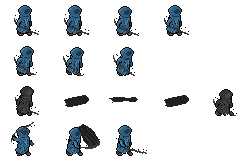
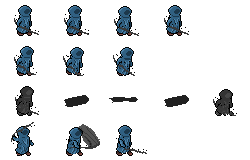
Increased player attacks hitbox

Changed region(s): [[0.308, 0.7812, 0.392, 0.9062]]

diff --git a/src/entities/Player.py b/src/entities/Player.py
@@ -109,15 +109,16 @@ class Player(Entity):
         )
 
     def attack_hitbox_rect(self) -> pygame.Rect:
-        """The world-space rect AttackState lands its hit against - just
+        """The world-space rect AttackState lands its hit against - mostly
         the strip in front of Marze's own hurtbox (facing the direction
-        currently flipped toward), not overlapping it, same convention as
-        src.entities.SmallDemon.melee_range_rect.
+        currently flipped toward), dipping PLAYER_ATTACK_INSET back inside
+        it rather than sitting completely flush, but nowhere near covering
+        the whole hurtbox the way it used to.
         """
         if self.flipped:
-            x = self.x - settings.PLAYER_ATTACK_RANGE
+            x = self.x - settings.PLAYER_ATTACK_RANGE + settings.PLAYER_ATTACK_INSET
         else:
-            x = self.x + self.width
+            x = self.x + self.width - settings.PLAYER_ATTACK_INSET
         return pygame.Rect(x, self.y, settings.PLAYER_ATTACK_RANGE, self.height)
 
     def get_attack_hitbox_rect(self) -> Optional[pygame.Rect]:

diff --git a/settings.py b/settings.py
@@ -78,6 +78,10 @@ PLAYER_INVINCIBILITY_DURATION = 1.0
 # No dedicated sprite yet, so it plays the idle animation for its duration
 # instead - see AttackState for the hit-frame timing this implies.
 PLAYER_ATTACK_RANGE = 20
+# How far the hitbox's near edge sits inside Marze's own hurtbox rather
+# than starting flush at it - the swing visually originates from the
+# body, not a hard edge, without going back to covering the whole hurtbox.
+PLAYER_ATTACK_INSET = 6
 PLAYER_ATTACK_DAMAGE = 15
 PLAYER_ATTACK_DURATION = 0.3
 
